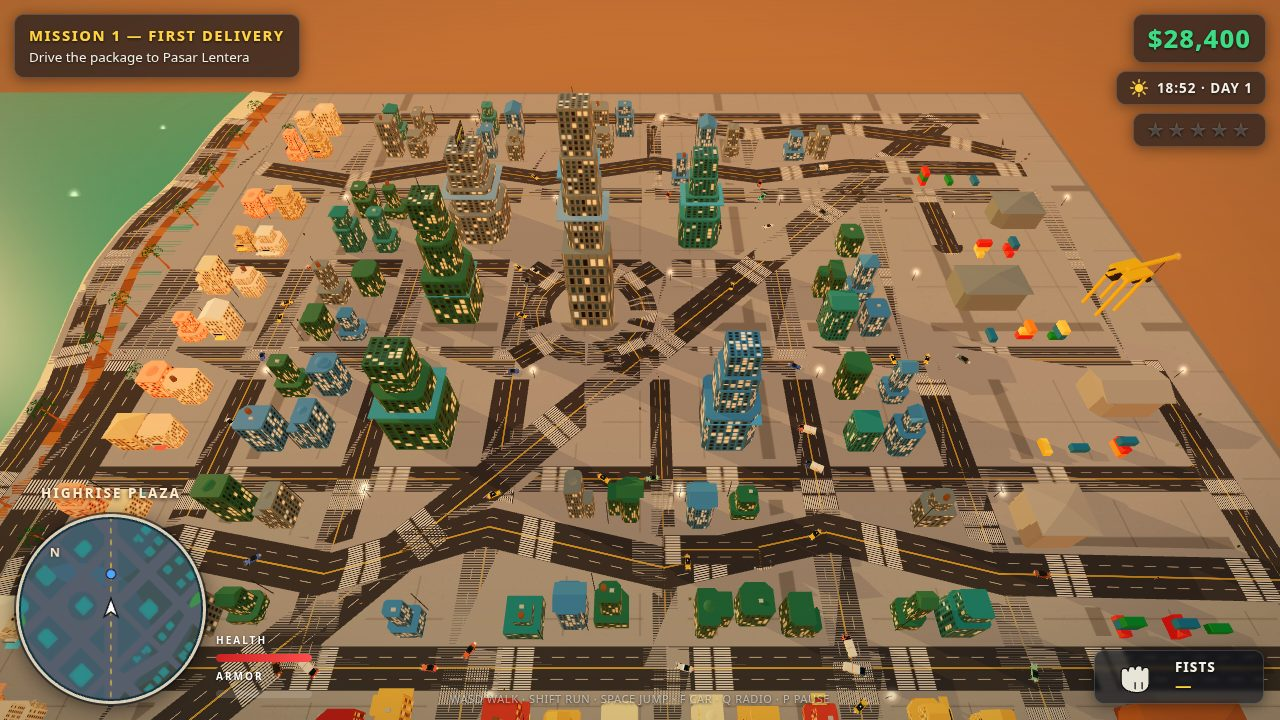
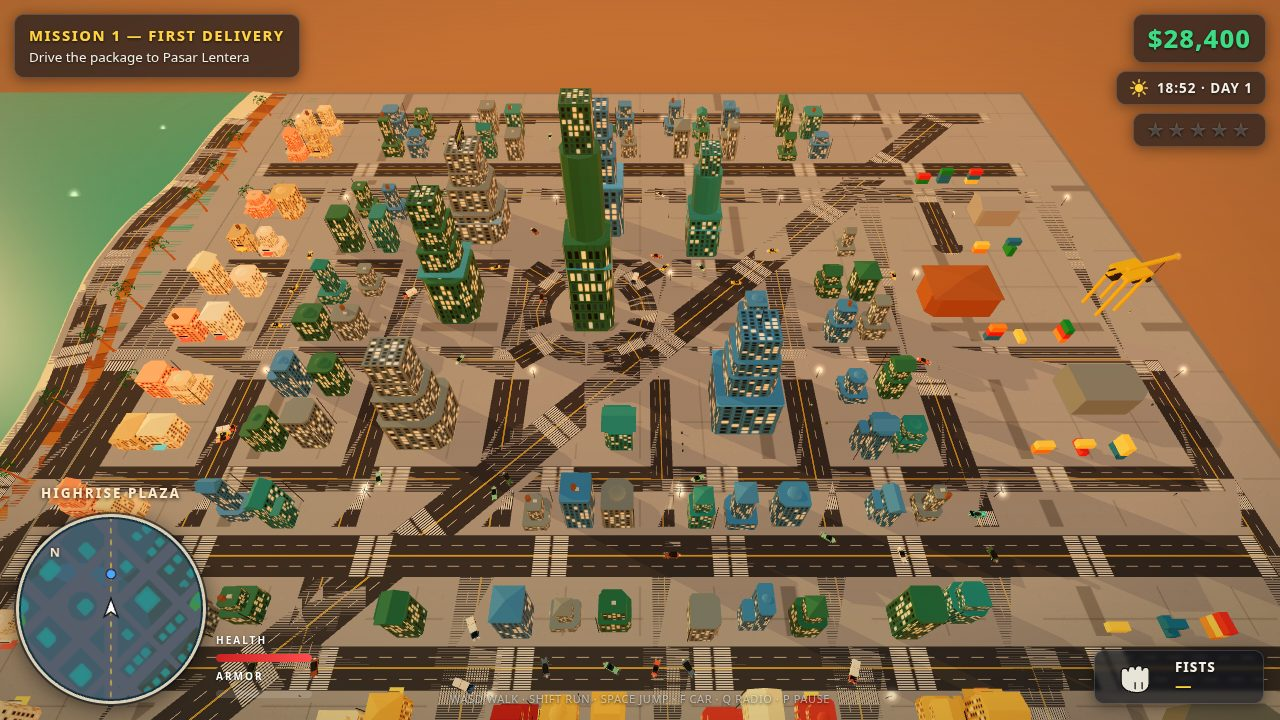
VANDARA RUSH — W5f (r7): straighten Market + Highrise mains, cut Bayview Curve — clean orthogonal grid + one avenue diagonal
Bos (02:30 WIB): W5e cut was not enough, whole network still read messy.
Cause (verified in code + topdown BEFORE): Market Curve + Highrise Arc
sawtoothed ±8 through the middle bands; Bayview Curve sagged across NE.
Fix: Market straightened to z=52, Highrise to z=-160, Bayview CUT,
D1 stub re-anchored to z=52. Avenue untouched (signature + required route).
Verify (tools/w5b-verify.cjs): 143/143 connected, avenue 0 blocked
(stripBlockedV2 0/62671; grid 240 identical to W5b/W5e baseline), 0 errors.
Topdown BEFORE/AFTER + aerials -w5f + minimap in screenshots-polish/verify/.

diff --git a/game/src/roads.js b/game/src/roads.js
@@ -4,8 +4,8 @@
 // uniform 8x8 grid is GONE. Streets are IRREGULARLY spaced, 4 are
 // partial (T-junctions), widths form a hierarchy (boulevard 11 /
 // mains 7 / streets 6 / lane 5 / alley 4), and the network is
-// completed by curved chains (avenue, ring, beach road, crescent,
-// Market Curve, Highrise Arc, Bayview Curve) + 2
+// completed by curved chains (avenue, ring, beach road, crescent)
+// + two straight east-west mains (Market z=52, Highrise z=-160) + 2
 // dead-end stubs. Blocks are the cells between adjacent streets —
 // different sizes by construction. A street is a node SEQUENCE
 // (endpoints + crossings with other streets + chain/link points that
@@ -17,6 +17,16 @@
 // the irregular spacing + partials + curves + diagonals, not a jog in
 // every run: streets are ~orthogonal with varying spacing, the curves
 // and diagonals supply the gentle bends.
+// W5f (r7) TIDY ROUND 2: the W5e cut of the Harbor Diagonal was not
+// enough — Bos (02:30 WIB): the whole network still read messy from
+// above. The cause was the two wavy mains through the middle of the
+// city (Market Curve + Highrise Arc sawtoothing ±8 through their
+// bands) plus the Bayview Curve cutting the NE corner: Market and
+// Highrise are STRAIGHTENED to z=52 / z=-160, Bayview is CUT. The
+// network is now a clean orthogonal grid + ONE diagonal (Vandara
+// Avenue) + contained loops (Plaza Ring, Pasar Crescent, beach road
+// along the coast). Every block is a closed rectangle except where
+// the single avenue cuts it — by design.
 // METHOD (OSM article, IDEAS ONLY — no OSM data, no copied code):
 // roads are POLYLINES from a plan written in this session (our own
 // fictional Vandara Bay, not a real city); a junction is a SHARED
@@ -143,10 +153,14 @@
   // can never go stale when a street moves. Dedupe < 2 keeps the
   // staggered pair (-54,24) [z=24] and (-52,22) [x=-52], 2.8 apart.
   // W5c (r6): +1 junction — (160,-190) where the Bayview Curve
-  // crosses it — so the curve joins the avenue at grade.
+  // crossed it — so the curve joins the avenue at grade.
   // W5e (r7): the Harbor Diagonal is CUT (it crossed the avenue at
   // (105,-135) at 90 degrees, an X through the NE superblock) and
   // its avenue junction point is gone with it.
+  // W5f (r7): Market junction (-81,51) -> (-82,52) and Highrise
+  // junction (133,-163) -> (130,-160) follow the straightened
+  // mains; the Bayview junction (160,-190) is gone with the cut
+  // Bayview Curve.
   var avPts = [];
   for (var avi = 0; avi < V.length; avi++) {
     var az = -30 - V[avi].x;
@@ -156,7 +170,7 @@
     var ax = -30 - H[ahi].z;
     if (ax >= H[ahi].x0 && ax <= H[ahi].x1) avPts.push([ax, H[ahi].z]);
   }
-  avPts.push([-81, 51], [133, -163], [160, -190]); // junctions with Market Curve / Highrise Arc / Bayview Curve
+  avPts.push([-82, 52], [130, -160]); // junctions with Market Main / Highrise Main
   avPts.sort(function (a, b) { return b[0] - a[0]; }); // west to east
   var avDedup = [];
   for (var adi = 0; adi < avPts.length; adi++) {
@@ -206,53 +220,49 @@
     [50, 194], [100, 199], [118, 210]
   ], 6);
 
-  // 5) MARKET CURVE — a wavy east-west main (w=7) through Pasar and
-  // Highrise Plaza. Every point lies ON a vertical street, so every
-  // point is a junction — the curve is stitched into the grid instead
-  // of floating over it. It crosses the avenue at (-81,51), which is
-  // a shared node of both chains.
+  // 5) MARKET MAIN (W5f, r7) — was MARKET CURVE: a wavy east-west
+  // main (60->48->58->51->42->56->44->58->60) that sawtoothed through
+  // the middle of the z=24..86 band and sliced its blocks into
+  // slivers — the main thing the aerial read as "acak-acakan" (Bos
+  // 02:30 WIB). STRAIGHTENED to z=52, full width, w=7: every point
+  // lies ON a vertical street, so every point is a junction, and
+  // the band splits into two clean rectangle rows (24..52, 52..86).
+  // It crosses the avenue at (-82,52), a shared node of both chains.
   defineChain('curve', [
-    [-210, 60], [-158, 48], [-104, 58], [-52, 42],
-    [8, 56], [-81, 51], [64, 44], [118, 58], [210, 60]
+    [-210, 52], [-158, 52], [-104, 52], [-82, 52], [-52, 52],
+    [8, 52], [64, 52], [118, 52], [210, 52]
   ].sort(function (a, b) { return a[0] - b[0]; }), 7);
 
-  // 6) HIGHRISE ARC — a gentle arc north of the ring, through
-  // downtown. Every point lies ON a vertical street (junctions).
-  // It runs 12-28 south of the z=-138 street (a distinct curved
-  // street, not a shadow of it) and crosses the avenue at (133,-163),
-  // a shared node.
-  // W5e (r7): the (83,-157) Harbor-Diagonal junction is gone with
-  // the diagonal — the arc runs (64,-154) -> (118,-164) direct.
+  // 6) HIGHRISE MAIN (W5f, r7) — was HIGHRISE ARC: a sawtooth
+  // (-162->-150->-164->-152->-166->-154->-164->-163->-160) 12-28
+  // south of the z=-138 street that read from above as a second
+  // wavy line shadowing it. STRAIGHTENED to z=-160, full width, w=6
+  // (kept inside the old corridor so no building footprint the old
+  // arc dodged is newly cut): the -138..-210 band splits into two
+  // clean rectangle rows (-138..-160, -160..-210). Every point lies
+  // ON a vertical street (junctions); it crosses the avenue at
+  // (130,-160), a shared node.
   defineChain('curve', [
-    [-210, -162], [-158, -150], [-104, -164], [-52, -152],
-    [8, -166], [64, -154], [118, -164], [133, -163], [210, -160]
+    [-210, -160], [-158, -160], [-104, -160], [-52, -160],
+    [8, -160], [64, -160], [118, -160], [130, -160], [210, -160]
   ].sort(function (a, b) { return a[0] - b[0]; }), 6);
 
-  // 6b) BAYVIEW CURVE (W5c, r6) — a curved boulevard across the
-  // north-east, between the north edge and the Highrise Arc, sagging
-  // south mid-block. Ties: (8,-210) on the north edge, (64,-194) on
-  // V64, (118,-200) on V118, (160,-190) shared with the avenue,
-  // (210,-172) on V210. W5e (r7): the Harbor Diagonal is CUT — it
-  // crossed the avenue at (105,-135) at 90 degrees, so the NE
-  // superblock was cut by an X of diagonals instead of a rectangle
-  // (the code's own comment admitted it). The Bayview Curve STAYS:
-  // it is a gentle curve (slope ~0.24 where it meets the avenue),
-  // the kind of bend the street rules allow, and cutting it would
-  // have left the X itself intact. Every Harbor point already lay
-  // on another road (north edge / Bayview / V64 / arc / H-138 /
-  // avenue / V118 / east edge), so cutting it orphans no node and
-  // the NE block closes as one rectangle bounded by the grid +
-  // the single avenue diagonal + the Bayview curve.
-  defineChain('curve', [
-    [8, -210], [57, -196], [64, -194], [118, -200],
-    [160, -190], [180, -186], [210, -172]
-  ], 6);
+  // 6b) BAYVIEW CURVE — CUT in W5f (r7). It sagged across the
+  // north-east band (-210..-138) from (8,-210) to (210,-172),
+  // cutting the NE corner blocks on a third diagonal-ish line
+  // alongside the avenue and the arc. Redundant: every one of its
+  // junctions already lay on another road, and the straightened
+  // Highrise Main at z=-160 already splits the NE band — so cutting
+  // it orphans no node and the NE closes as rectangles bounded by
+  // the grid + the single avenue diagonal.
 
   // 7-8) DEAD-END STUBS — short cul-de-sac stubs into blocks, each
   // ending in a turnaround bulb (world.js renders a disc at the end
   // point). Degree-1 graph endpoints; everything else stays
   // connected through the stub's start junction.
-  defineChain('deadend', [[8, 50], [40, 50]], 5);
+  // W5f: D1 moved 50 -> 52 so it branches off the straightened
+  // Market Main instead of floating 2 units off it.
+  defineChain('deadend', [[8, 52], [40, 52]], 5);
   defineChain('deadend', [[150, -138], [150, -100]], 5);
 
   // Connector segments (ring spokes, beach ties): graph edges that
